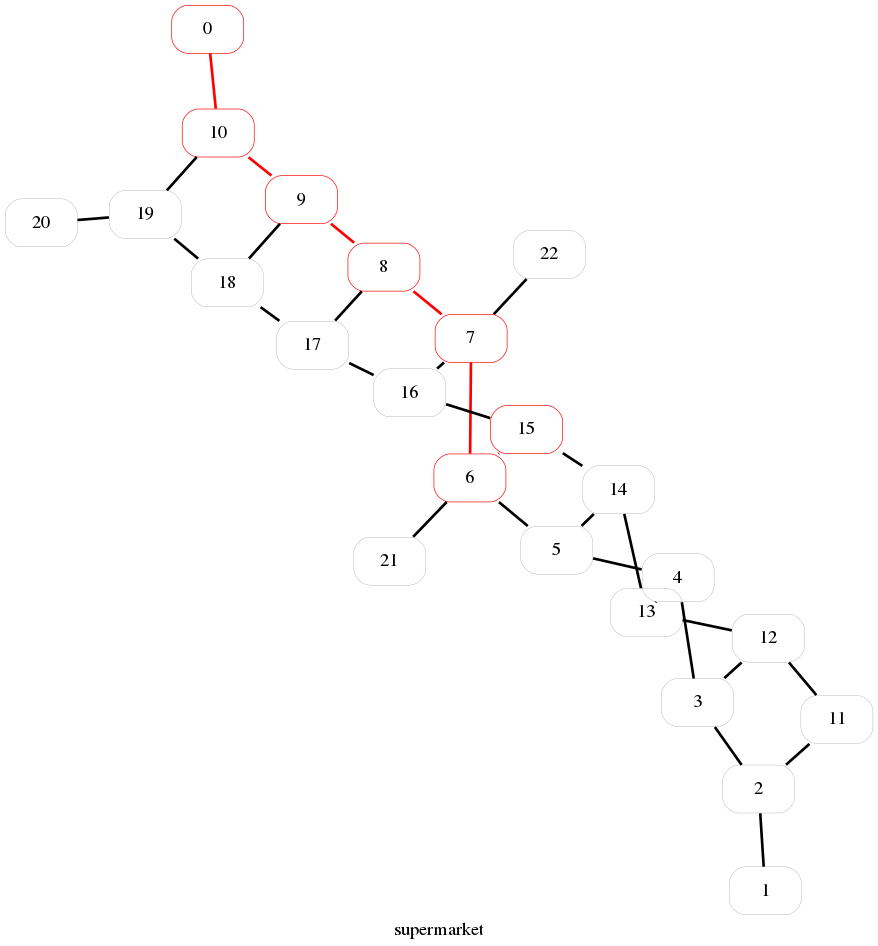
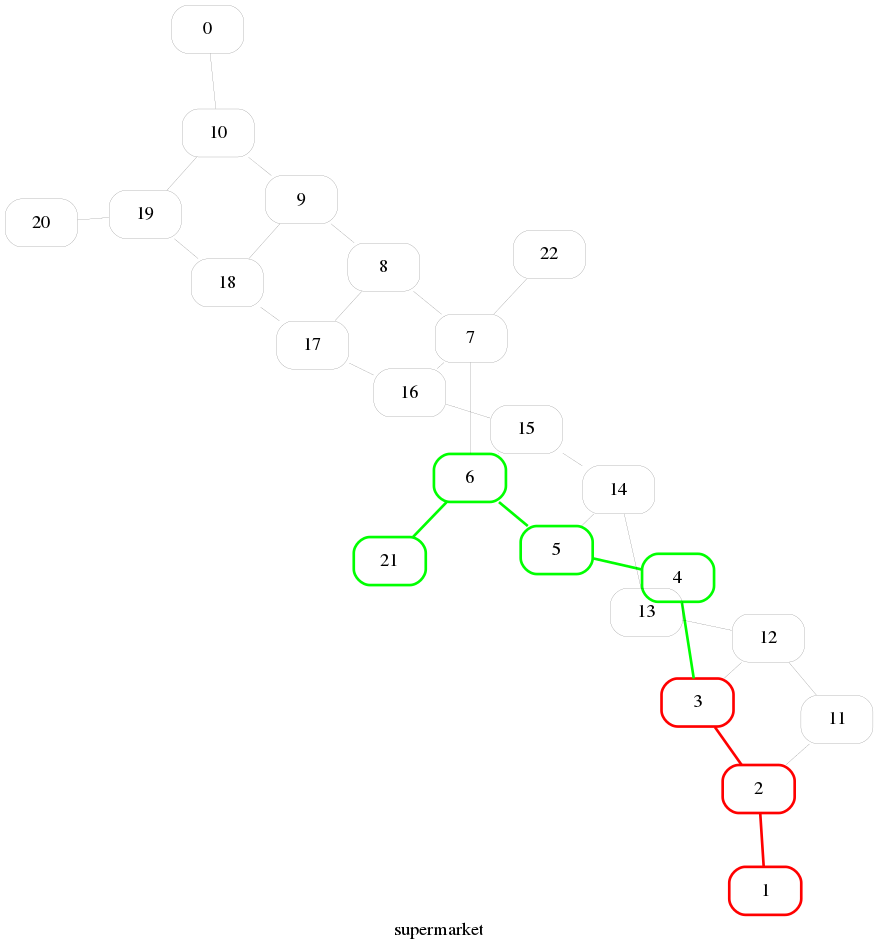
build and run two cases

diff --git a/src/graph.py b/src/graph.py
@@ -14,7 +14,7 @@ class Graph:
                 self.G.add_edge(int(row.id), node)
 
     def write(self, file_name):
-        self.G.write("../output/" + file_name + ".dot")
+        self.G.write("./output/" + file_name + ".dot")
 
     def draw(self, file_name):
         self.G.graph_attr['label'] = file_name
@@ -37,9 +37,9 @@ class Graph:
         # self.G.edge_attr['arrowsize'] = 10.0
         # self.G.edge_attr['arrowtype'] = 10
         self.G.layout()
-        self.G.draw("output/" + file_name + ".png")
+        self.G.draw("./output/" + file_name + ".png")
 
-    def draw(self, file_name, bestPath):
+    def draw(self, file_name, bestPath, bestPathToCash):
         self.G.graph_attr['label'] = file_name
         self.G.graph_attr['imagescale'] = True
         self.G.graph_attr['splines'] = 'line'
@@ -50,16 +50,28 @@ class Graph:
         self.G.node_attr['penwidth'] = 0.1
 
         self.G.edge_attr['color'] = 'black'
-        self.G.edge_attr['penwidth'] = 2
+        self.G.edge_attr['penwidth'] = 0.1
 
         for node in bestPath:
             node = self.G.get_node(node)
             node.attr['color'] = 'red'
-            node.attr['penwidth'] = 0.5
+            node.attr['penwidth'] = 2
         for i in range(len(bestPath)-1):
             edge = self.G.get_edge(bestPath[i], bestPath[i+1])
             edge.attr['color'] = 'red'
+            edge.attr['penwidth'] = 2
 
+        for node in bestPathToCash:
+            node = self.G.get_node(node)
+            if int(node) not in bestPath:
+                node.attr['color'] = 'green'
+                node.attr['penwidth'] = 2
+        for i in range(len(bestPathToCash)-1):
+            edge = self.G.get_edge(bestPathToCash[i], bestPathToCash[i+1])
+            if not (bestPathToCash[i] in bestPath and bestPathToCash[i+1] in bestPath) :
+                edge.attr['color'] = 'green'
+                edge.attr['penwidth'] = 2
+            
         self.G.layout()
         self.G.draw("./output/" + file_name + ".png")
 

diff --git a/src/supermarket.py b/src/supermarket.py
@@ -5,7 +5,6 @@ import os
 
 
 def main():
-    graphName = "supermarket"
     hallwaysPathName = sys.argv[1]
     hallwaysGraphPathName = sys.argv[2]
     df_hallways = readGraph(hallwaysPathName, {"id": str, "names": list})
@@ -16,16 +15,27 @@ def main():
     G = Graph(df_adyacents, False)
 
     # find the path by metaheuristic method (GRASP)
-    sources = [0, 1]
-    target = 15
+    sources = [0, 1] # doors
+    target = int(sys.argv[3])
     grasp = Grasp(sources, G)
     bestPath = grasp.bestPathTo(target)[1]
     bestCost = grasp.bestPathTo(target)[0]
     print("the best path to go " + str(target) + " is " +
           str(bestPath) + ". The cost is : " + str(bestCost))
+    
 
-    # G.write(graphName)
-    G.draw(graphName, bestPath)
+    sourcesTocash = [21, 22] # cashbox
+    targetToCash = int(target)
+    graspToCash = Grasp(sourcesTocash, G)
+    bestPathToCash = graspToCash.bestPathTo(targetToCash)[1]
+    bestCostToCash = graspToCash.bestPathTo(targetToCash)[0]
+    print("the best path to go " + str(targetToCash) + " is " +
+          str(bestPathToCash) + ". The cost is : " + str(bestCostToCash))
+
+
+    graphName = sys.argv[4]
+    G.write(graphName)
+    G.draw(graphName, bestPath, bestPathToCash)
 
 
 def addColumnToDataFragment(df, name, column):

diff --git a/readme.md b/readme.md
@@ -28,6 +28,6 @@ python test/testGrasp.py
 first param : Hallways names
 second param : Hallways graph relationes
 ```
-python src/supermarket.py $PWD/files/hallways.json $PWD/files/hallwaysGraph.json 
+python src/supermarket.py $PWD/files/hallways.json $PWD/files/hallwaysGraph.json 3 supermarket 
 ```
 In **output** path will be the image with the best path
